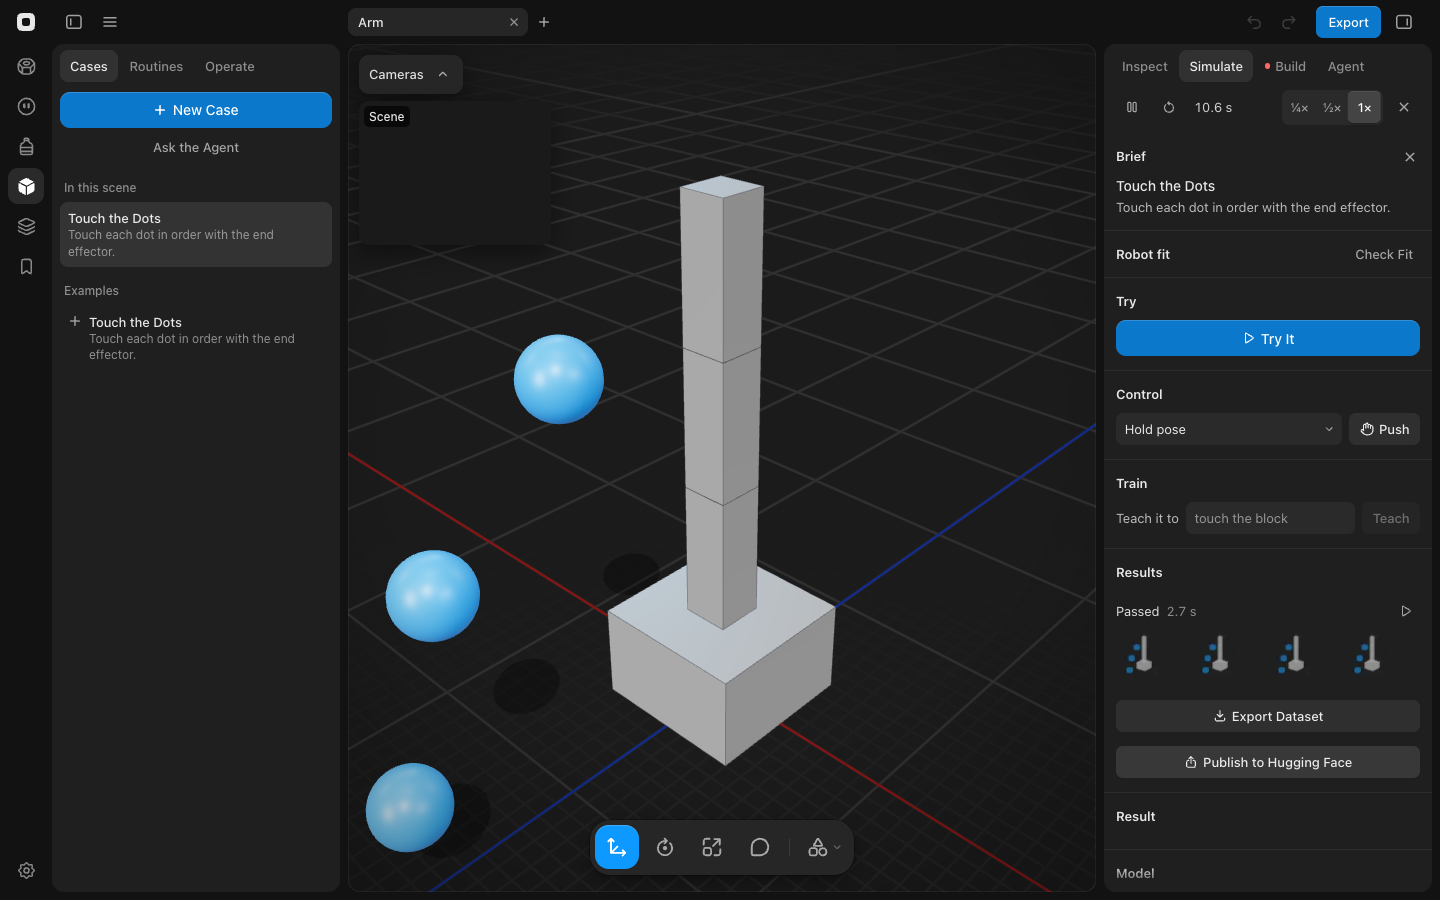
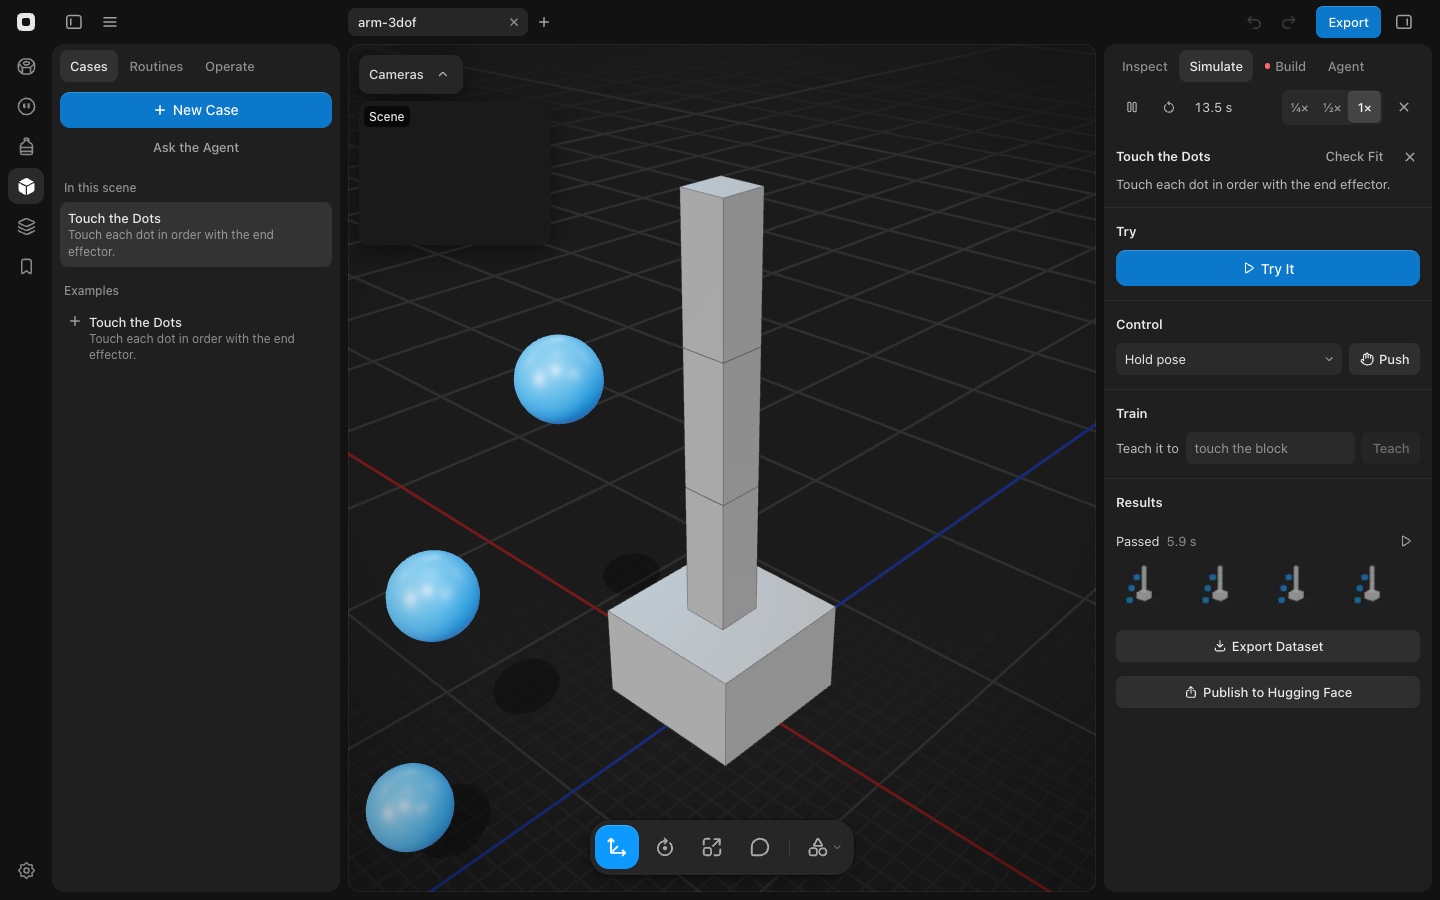
Recapture the Hugging Face results screenshot for the new Simulate layout
publish-a-dataset-to-hugging-face covers ResultsSection.tsx, and its results.png still showed the removed Brief, Robot fit, Result and Model sections. It now shows the Case section on top and Results with a passed try, Export Dataset and Publish to Hugging Face. The Skills guide now says the policy rows in Train read the design fingerprints, since the Policies section is gone. The Servo torque test's negative match now uses the real label "Knee l". The Build guide notes that an estimated stand-in servo counts as no servo for Torque estimates, as it does for the MJCF writer.

diff --git a/src/utils/engineeringSimModel.test.ts b/src/utils/engineeringSimModel.test.ts
@@ -88,7 +88,7 @@ describe('Torque estimates', () => {
       row(r, 'Servo torque')!
         .items!.map((i) => i.text)
         .join('\n'),
-    ).not.toMatch(/Knee L|No torque data/);
+    ).not.toMatch(/Knee l|No torque data/);
   });
 
   it('reads Servo torque as not run when no joint has a servo', () => {

diff --git a/docs/guide/build.md b/docs/guide/build.md
@@ -33,7 +33,7 @@ The Build tab (right panel) and the agent's build tools turn a model into someth
   - Weight: total mass and centre of mass from printed mass, catalog weights, fastener volume × finish density, supply weights; estimates flagged.
   - Servo torque (`actuatorRules.ts`, `engineeringCrouch.ts`): stall and rated torque at the servo supply voltage (a regulator's output, else the battery's nominal), interpolated over the datasheet's voltage points and scaled down below the lowest, never rated at more than the supply can reach. Leg pitch joints (the largest set of parallel, level axes in a leg, whichever way the robot faces; a knee settles a tie) carry the whole robot on one leg (two for 3+ legs, for stance as well as crouch) at the gait's crouch, at least 30°: τ = m·g·lever·sin(θ/2). **Stance** PASS ≤ 0.40 of stall, WARN to 0.60, FAIL above; **Heat** 0.67 × τ ÷ rated PASS ≤ 1.0, WARN to 1.6, FAIL above. Other joints hold their limb across the range: PASS ≤ 0.40 of stall and ≤ rated, FAIL above 0.60. Rated falls back to ¼ of stall. A joint's rating sums the catalog actuators on it and skips the rest, as the MJCF writer does (`jointServos`). Joints with neither a catalog actuator nor a published limit aren't graded here (all of them: Not run); Torque estimates names them. **Peak** is Not run until a trained walk policy is simulated with force limits at 0.7 × stall. The thresholds come from robots that walk (docs/research/Agent harness/actuator_sizing.md): no walker meets the old 1/5-of-stall rule at the knee. Actuator numbers per version in `ComponentInfo.actuator` / `variants`, with sources.
   - Peak torque (`engineeringPeak.ts`, `agentPeak.ts`, `utils/peakTorque.ts`): `verify_design` with `peak: true` walks the latest walk policy in MuJoCo for 14 s with two shoves of 0.3 × weight, every force limit at 0.7 × stall at the supply voltage. Per leg joint, whichever load grades it in Servo torque: the 99th percentile (25 ms windows) of the torque the joint *asks for* (the position servo's command before its force limit; the delivered force can never pass the limit) over stall. PASS ≤ 0.8, WARN ≤ 1.0, FAIL above stall for more than 50 ms or a fall. The walk's RMS replaces 0.67 × stance in Heat. Not run without a walk policy. Building the MuJoCo model still runs on the main thread (about 0.5 s the first time, hulls cached per part after, `mjcfHull.ts`), as the live sim does.
-  - Torque estimates and Servo models (`engineeringSimModel.ts`): what the simulation has to guess, as notes. Torque estimates names the movable joints with no catalog actuator and no published limit, whose force limit the MJCF writer estimates from the weight they hold (§8d), and selects their child parts. Servo models names the Servos-group parts with no measured model (`measuredServos`: only fitted variants such as the STS3215 C001 and XL330), whose response is estimated, and selects them. It grades only revolute joints that aren't wheels: the simulation never applies a measured model to wheels or slides, and gearmotors and steppers have none, so those are left out rather than warned about. Each is one finding, never one per joint, naming at most three joints and three servos and counting the rest; every part stays selected. Neither runs without movable joints, and Servo models not without a servo it grades. They replace the estimate notes the Simulate tab used to carry.
+  - Torque estimates and Servo models (`engineeringSimModel.ts`): what the simulation has to guess, as notes. Torque estimates names the movable joints with no catalog actuator and no published limit, whose force limit the MJCF writer estimates from the weight they hold (§8d), and selects their child parts. An estimated stand-in servo (a block-out with no actuator spec) counts as no servo there, as it does for the MJCF writer, so its joint reads “No servo on …”. Servo models names the Servos-group parts with no measured model (`measuredServos`: only fitted variants such as the STS3215 C001 and XL330), whose response is estimated, and selects them. It grades only revolute joints that aren't wheels: the simulation never applies a measured model to wheels or slides, and gearmotors and steppers have none, so those are left out rather than warned about. Each is one finding, never one per joint, naming at most three joints and three servos and counting the rest; every part stays selected. Neither runs without movable joints, and Servo models not without a servo it grades. They replace the estimate notes the Simulate tab used to carry.
   - Budget (`engineeringBudget.ts`): the BOM estimate (checked plus list prices, and support filament when `supportG` is passed in; the row says when it isn't) against the budget. FAIL over, WARN above 90%.
   - Range changes (`engineeringRanges.ts`, WARN): a joint narrower than its first definition (`project.firstRanges`, set once by `define_joints`), with the old value. The agent can't clear it.
   - Servo alignment: each servo's output on its joint axis, the output read from the servo mesh's top cap; any other declared `output` port also counts (`output-b` of a 2XL430). Motors use their declared output port. An actuator with no known output is Not run, or named in the summary, never a pass.

diff --git a/docs/guide/skills.md b/docs/guide/skills.md
@@ -108,7 +108,7 @@ Compute priority is viewport, Gatekeeper lease, user training, Motor Kit (`elect
 - **The gate lease holds the Kit:** with `useGateLease()` (the app's trainer; tests construct their own), no Kit job starts while `$TMPDIR/basecase-gatekeeper.lease` exists, and a running one is paused when the lease appears (polled every 30 s). User training isn't held.
 - **The viewport comes first:** a Kit child process runs at OS priority 10 (`os.setPriority`).
 
-In the app (`src/workspace/useSkills.ts`) the scene model is rebuilt 1.5 s after the last edit to parts, joints or servo calibrations, while the robot is legged or the scene has skills or policies; the Policies section reads its fingerprints too (§8d). When its topology, physics or actuator hash moved (`designMoved`; a colour or name edit moves none), `backgroundTasks` lists every Kit entry that was trained before and isn't fresh now: Arena again for `rerun-arena` (`recheckSkill`, no training), the Kit pipeline for `needs-training`. Entries nobody trained never start on their own. A newer design aborts the running one (latest wins); a user job aborts it too and the queue resumes after.
+In the app (`src/workspace/useSkills.ts`) the scene model is rebuilt 1.5 s after the last edit to parts, joints or servo calibrations, while the robot is legged or the scene has skills or policies; the policy rows in Train read its fingerprints too (§8d). When its topology, physics or actuator hash moved (`designMoved`; a colour or name edit moves none), `backgroundTasks` lists every Kit entry that was trained before and isn't fresh now: Arena again for `rerun-arena` (`recheckSkill`, no training), the Kit pipeline for `needs-training`. Entries nobody trained never start on their own. A newer design aborts the running one (latest wins); a user job aborts it too and the queue resumes after.
 
 ### In the app
 
